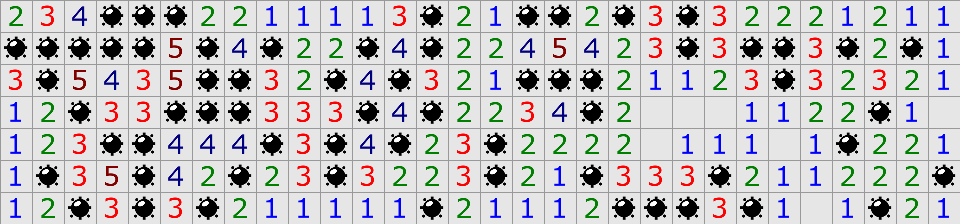
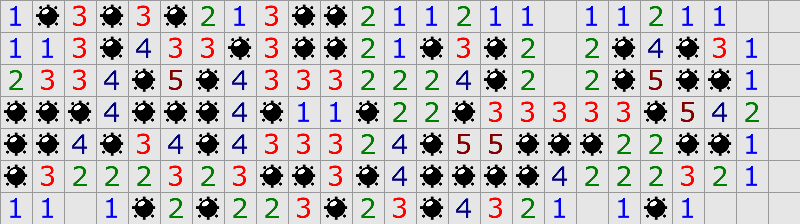
clean

diff --git a/start_v2.py b/start_v2.py
@@ -430,7 +430,7 @@ class help_pack:
 
 
 
-game=game_operatoren(20,10,.3)
+game=game_operatoren(25,7,.3)
 game.Spielumgebung()
 game.newgame()
 
